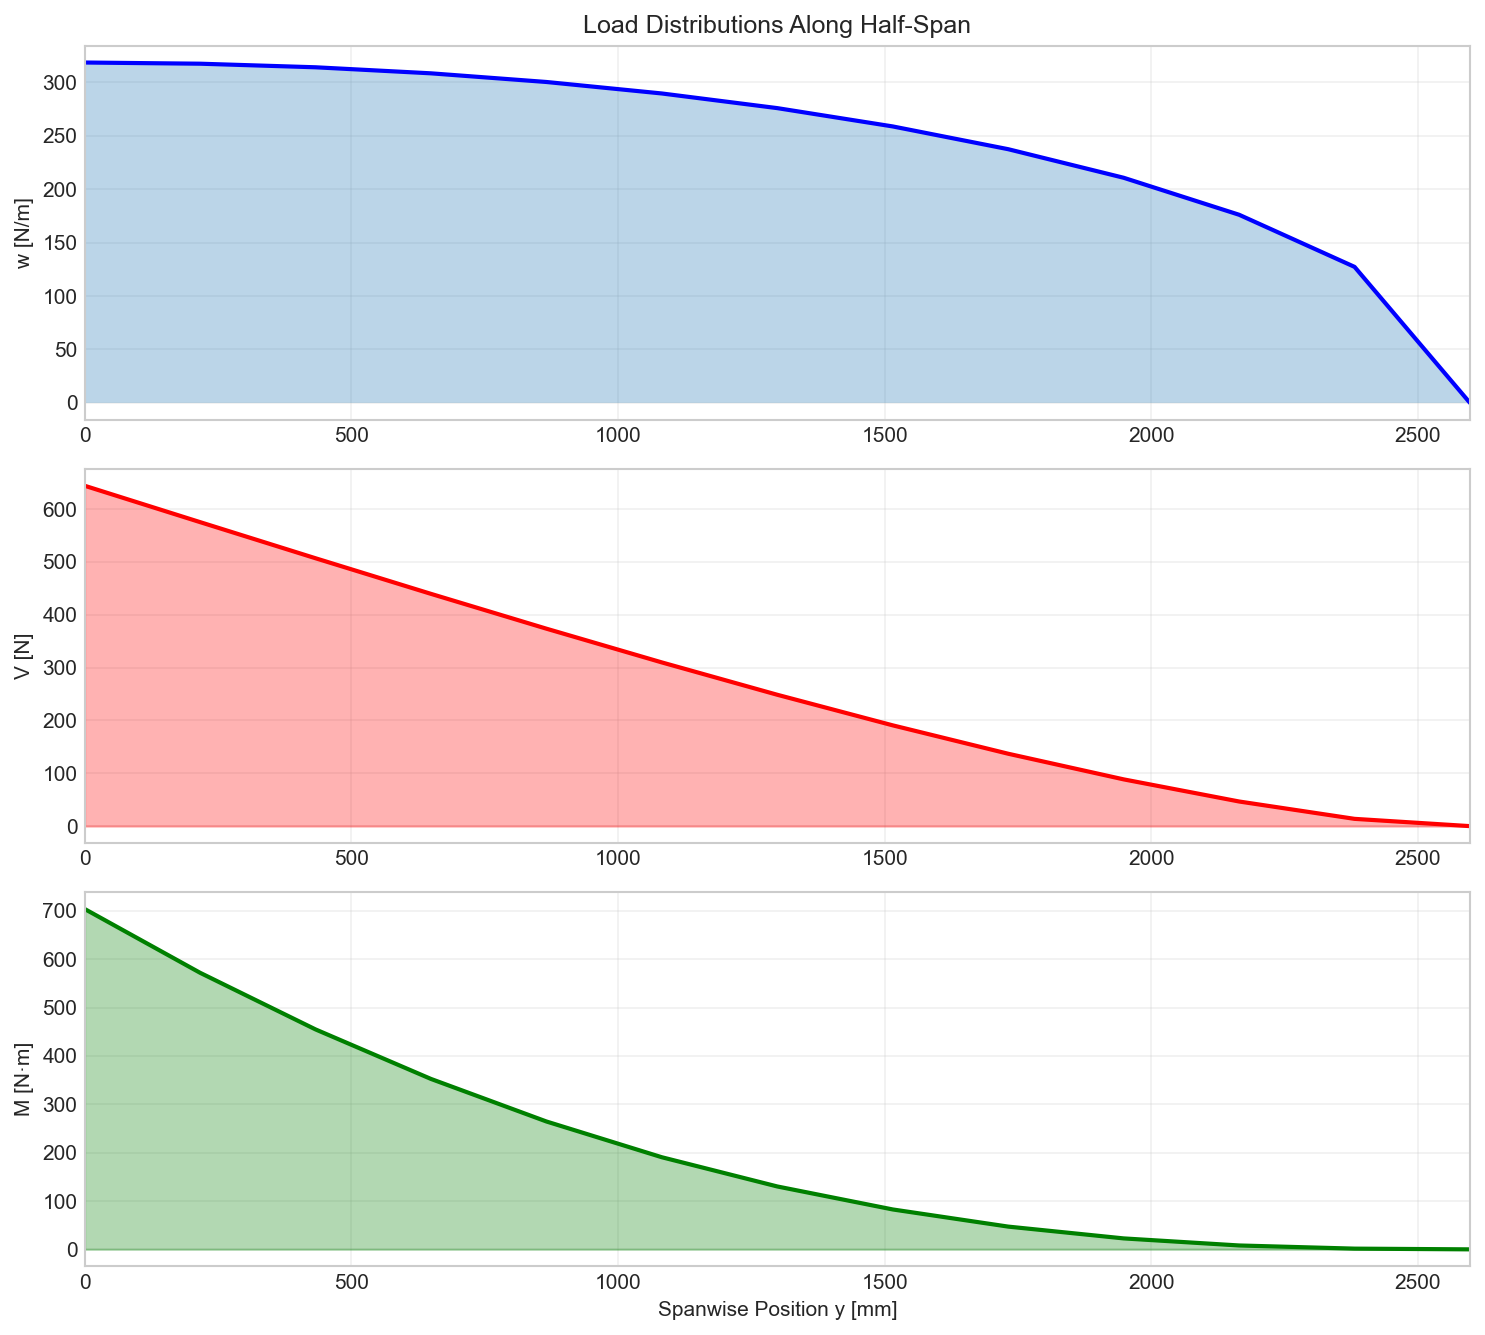
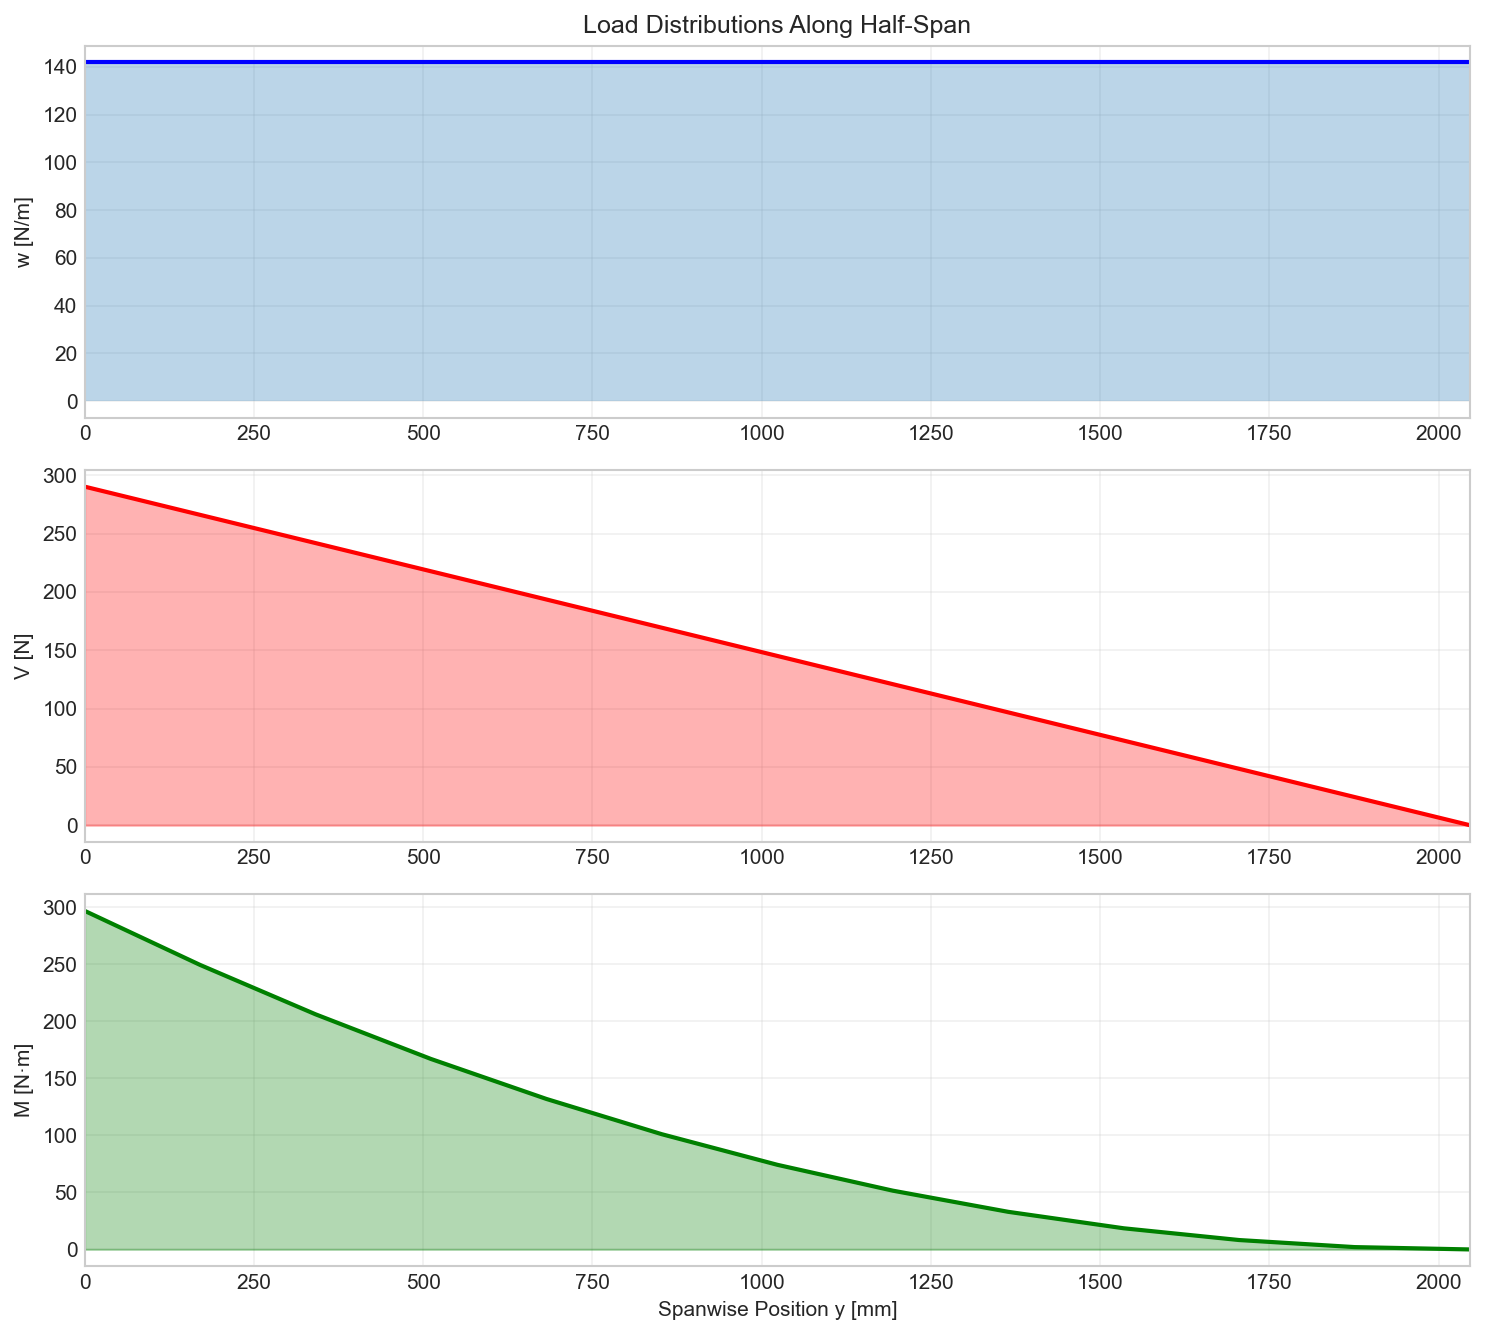
Cursor: Apply local changes for cloud agent

diff --git a/wing_structural_analysis/loads.py b/wing_structural_analysis/loads.py
@@ -122,6 +122,46 @@ def get_lift_distribution_func(dist_type: LoadDistributionType) -> Callable:
 # SHEAR FORCE AND BENDING MOMENT (Numerical Integration)
 # =============================================================================
 
+
+def root_bending_moment_from_total_load(n: float, W0: float, y_bar_m: float) -> float:
+    """
+    Root bending moment (single value) using:
+        M_root = n * W0 * y_bar / 2
+
+    Parameters
+    ----------
+    n : float
+        Load factor [-]
+    W0 : float
+        Total weight or total lift being reacted by the wing [N]
+        (use consistent convention with your report)
+    y_bar_m : float
+        Mean spanwise moment arm [m]
+
+    Returns
+    -------
+    float
+        Root bending moment [N*m]
+    """
+    return n * W0 * (y_bar_m / 2.0)
+
+
+def root_bending_moment_ybar_in_mm(n: float, W0: float, y_bar_mm: float) -> float:
+    """
+    Same as above, but y_bar is given in mm (as in your screenshot sometimes).
+    Converts mm -> m internally.
+    """
+    y_bar_m = y_bar_mm / 1000.0
+    return n * W0 * (y_bar_m / 2.0)
+
+
+
+
+
+
+
+
+
 def compute_shear_force(y: np.ndarray, w: np.ndarray) -> np.ndarray:
     """
     Compute shear force distribution V(y).
@@ -460,19 +500,19 @@ if __name__ == "__main__":
 
     # Setup planform
     planform = PlanformParams.from_input(
-        b=2.0, AR=8.0, taper_ratio=0.5, t_c=0.12,
-        S_ref=0.5, C_r_mm=300, c_MGC=0.25, Y_bar_mm=400
+        b=4.093, AR=11.03, taper_ratio=0.649, t_c=0.17,
+        S_ref=1.519, C_r_mm=450.12, c_MGC=376.7, Y_bar_mm=950.65
     )
 
     # Flight condition (small UAV, 2g maneuver)
     flight = FlightCondition(
-        W0=50,          # 50 N (~5 kg)
+        W0=290.260,          # 50 N (~5 kg)
         n=2.0,          # 2g
-        V_c=25,         # 25 m/s
-        rho=1.225,      # sea level
-        C_m=-0.05,      # typical
-        S_ref=0.5,
-        c_MGC=0.25
+        V_c=21.48,         # 25 m/s
+        rho=1.112,      # sea level
+        C_m=-0.262,      # typical
+        S_ref=1.519,
+        c_MGC=276.7
     )
 
     print(f"Flight condition:")
@@ -483,10 +523,10 @@ if __name__ == "__main__":
     print(f"  M_pitch_half = {flight.M_pitch_half:.3f} N·m")
 
     # Spar positions
-    spar_pos = SparPosition(X_FS_percent=25, X_RS_percent=65)
+    spar_pos = SparPosition(X_FS_percent=15, X_RS_percent=60)
 
     # Generate stations
-    N_Rib = 10
+    N_Rib = 12
     y = generate_rib_stations(N_Rib, planform.L_span)
     chord = np.array([chord_at_station(yi, planform.C_r, planform.c_tip, planform.L_span) for yi in y])
     x_FS = np.array([spar_pos.x_FS_at_station(c) for c in chord])

diff --git a/wing_structural_analysis/spars.py b/wing_structural_analysis/spars.py
@@ -627,7 +627,7 @@ def analyze_box_beam_stress(M: float, T: float,
 
     # Torsional shear in spar tubes (split by load sharing)
     tau_FS_val = abs(T * eta_FS) * spar_FS.c_dist / spar_FS.J
-    tau_RS_val = abs(T * eta_RS) * spar_RS.c_dist / spar_RS.J
+    tau_RS_val = abs(T * eta_RS) * spar_RS.c_dist / spar_RS.J 
 
     return BoxBeamStressResult(
         y=y,
@@ -694,11 +694,11 @@ if __name__ == "__main__":
 
     # Material
     db = MaterialDatabase()
-    al = db.get_material('AL7075-T6')
+    al = db.get_material('CFRP_UD')
 
     # Create spars
-    spar_FS = SparProperties.from_mm(d_outer_mm=20, t_wall_mm=2, material=al)
-    spar_RS = SparProperties.from_mm(d_outer_mm=16, t_wall_mm=1.5, material=al)
+    spar_FS = SparProperties.from_mm(d_outer_mm=24, t_wall_mm=1, material=al)
+    spar_RS = SparProperties.from_mm(d_outer_mm=16, t_wall_mm=1, material=al)
 
     print("Front Spar:")
     print(f"  d_outer = {spar_FS.d_outer*1000:.1f} mm")
@@ -721,14 +721,14 @@ if __name__ == "__main__":
     print(f"  η_RS = {sharing.eta_RS:.3f} ({sharing.eta_RS*100:.1f}%)")
 
     # Stress analysis at root
-    M_root = 20.0  # N·m
-    T_root = 0.5   # N·m (torsion)
+    M_root = 270.7032555 # N·m
+    T_root = 48.53062776 # N·m (torsion)
 
     print(f"\n--- Stress Analysis at Root ---")
     print(f"M = {M_root} N·m, T = {T_root} N·m")
 
     result = analyze_dual_spars(M_root, T_root, spar_FS, spar_RS,
-                                X_FS_percent=25.0, X_RS_percent=75.0, x_ac_percent=25.0)
+                                X_FS_percent=15.0, X_RS_percent=60.0, x_ac_percent=25.0)
 
     print(f"\nFront Spar:")
     print(f"  M_share = {result.FS.M_share:.2f} N·m")
@@ -746,14 +746,14 @@ if __name__ == "__main__":
     print(f"Max σ_vm = {result.max_sigma_vm/1e6:.2f} MPa")
 
     # Check against allowable
-    SF = 1.5
+    SF = 3.8
     sigma_allow = al.sigma_u / SF
     margin = (sigma_allow - result.max_sigma_vm) / sigma_allow * 100
     print(f"\nAllowable σ (SF={SF}): {sigma_allow/1e6:.1f} MPa")
     print(f"Safety margin: {margin:.1f}%")
 
     # Mass calculation
-    L_span = 1.0  # m
+    L_span = 2.0465 # m
     m_FS = spar_mass(spar_FS, L_span)
     m_RS = spar_mass(spar_RS, L_span)
     print(f"\n--- Spar Masses (L={L_span}m) ---")

diff --git a/wing_structural_analysis/materials.py b/wing_structural_analysis/materials.py
@@ -64,7 +64,7 @@ DEFAULT_MATERIALS: Dict[str, Material] = {
         E=145e9,            # 135 GPa
         nu=0.3,
         density=1500,       # kg/m³
-        sigma_u=2000e6,     # 1500 MPa
+        sigma_u=2080e6,     # 1500 MPa
         tau_u=120e6          # 120 MPa (interlaminar)
     ),
     'GFRP': Material(
